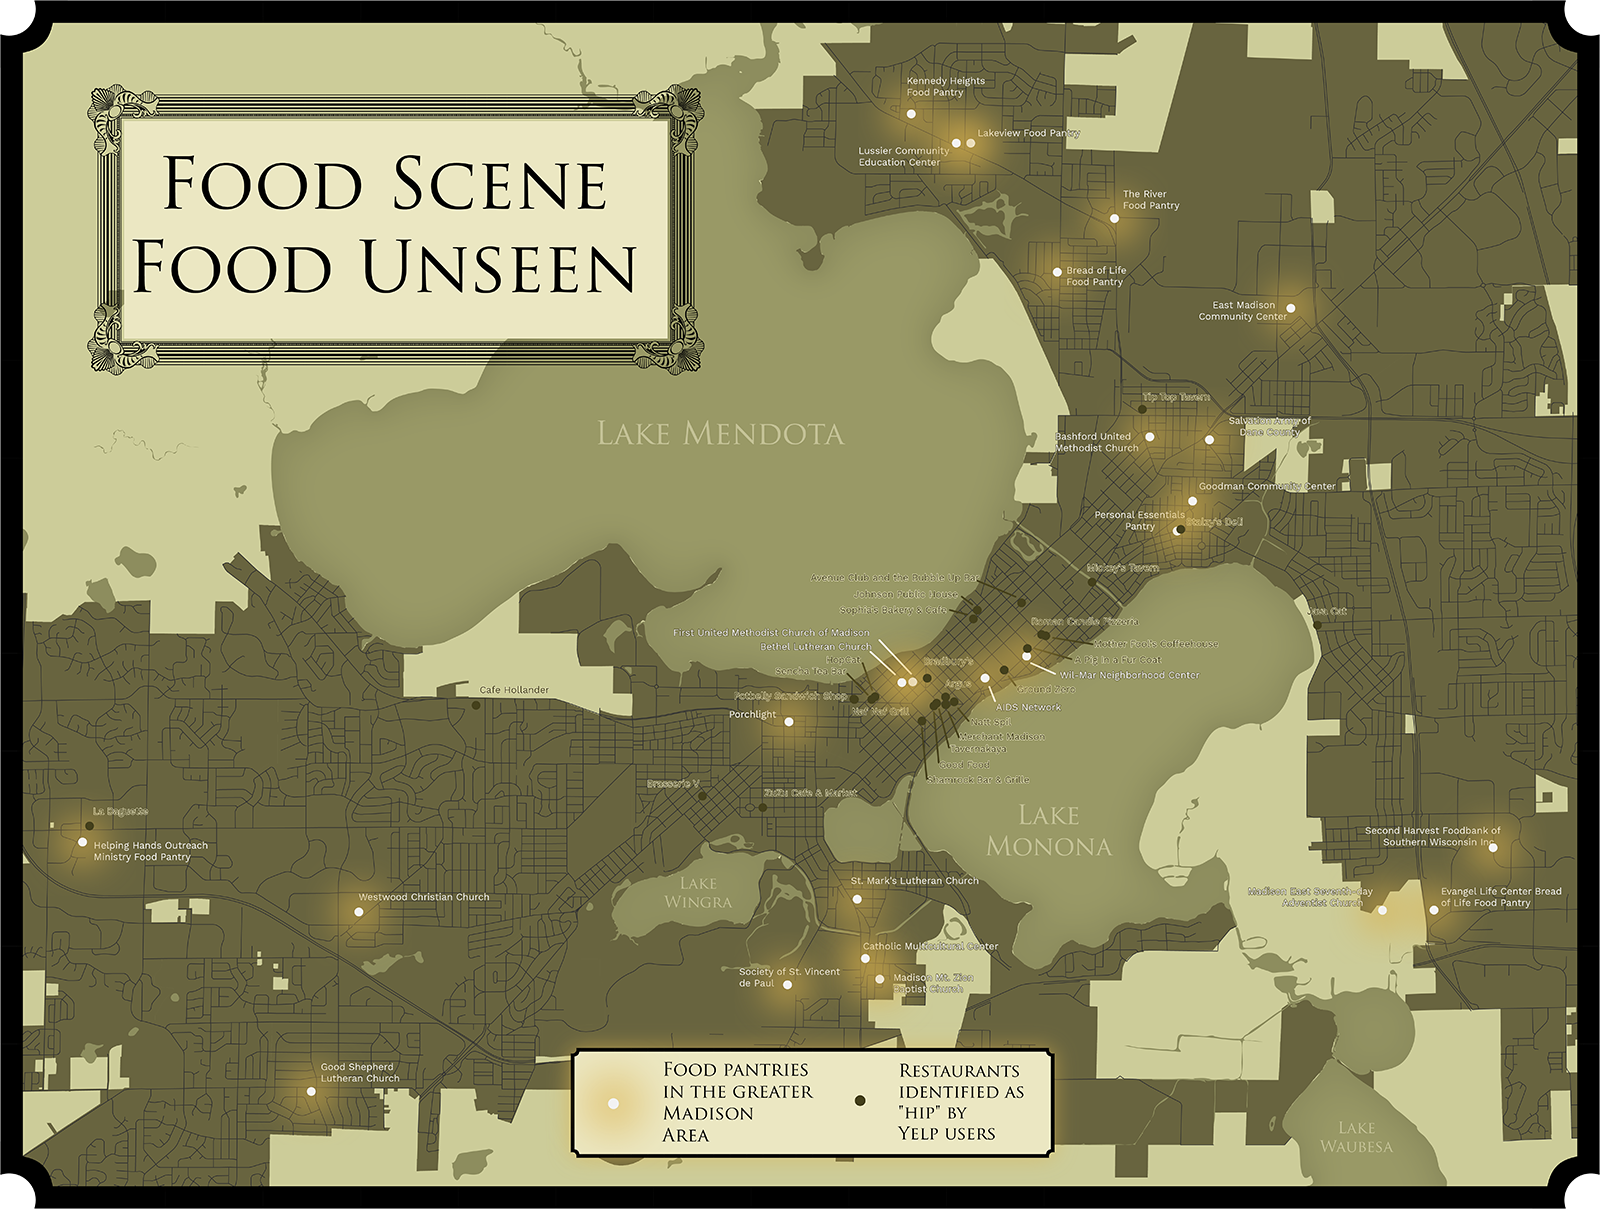
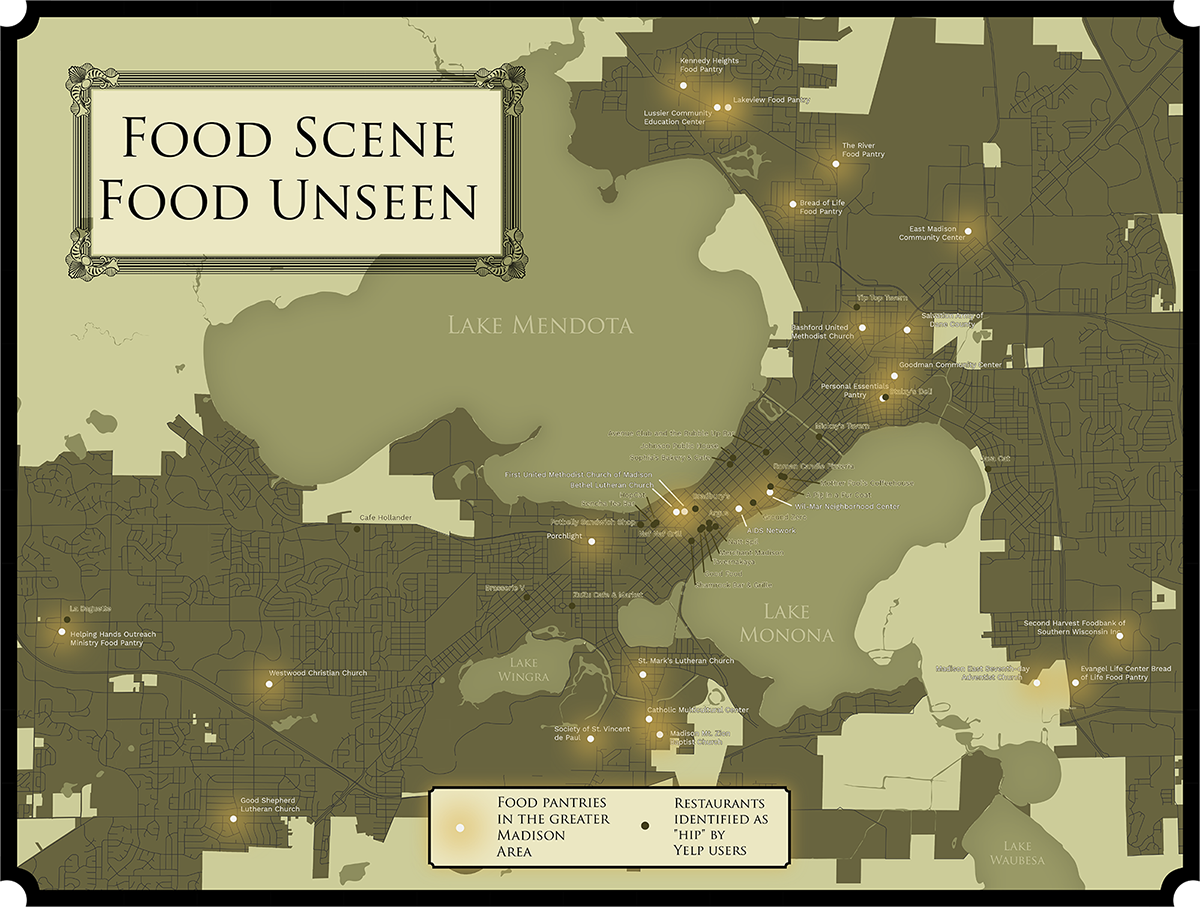
Updated Images and Summaries

diff --git a/madminiatlas.html b/madminiatlas.html
@@ -36,17 +36,31 @@
 
 <div><img align="center" siz src="images/MadAtlasLogo.png" alt="name of image" style="width: 100%;" "img-responsive center-block" /></div><br>
 	<p class="atlas header">When I visit a new city my favorite way to explore is through my stomach. I set out hoping to find those hidden gems known only to locals, the secret corners of the city that make it unique. Increasingly I find that I cultivate my experience not through a romanticized aimless wandering but through the careful culling of the aggregate experiences of others. My engagement with the city becomes dependent on a set of attributes I had no input into. What don’t I see? What flavors do I miss?</p>
-		<h2 align="center">food scene | food unseen</h2>
-			<div><img align="center" siz src="images/FoodUnscene_thumb.png" alt="name of image" style="width: 98%;" "img-responsive center-block" /></div>
-			<h3 align="center">view the full size map <a target="_blank" href="images/FoodUnscene_Full.png">here</a>.</h3>
+		
+		<h2 align="center">food scene | food unseen</h2><br>
+			<p>Often the conversations about a food scene in a city are dominated by the new and the next. Mixologists, small plates, unusual flavor combinations. This restaurant culture has a clear geography across Madison, concentrated on the Isthmus it is easy to forget that it is possible to eat beyond this strip of land.</p>
+			<p>To contrast and complicate this single, dominating food culture I chose to map the locations of Madison’s food pantries. Unassuming and endlessly essential they are sprinkled throughout the city, sometimes even sharing a block with trendiest restaurants in the city. This map is a reminder that there will always be portions of the city that will remain unseen even when they appear to be in plain sight.</p>
+			<div><img align="center" siz src="images/FoodUnscene_thumb.png" alt="name of image" style="width: 100%;" "img-responsive center-block" /></div>
+				<h3 align="center">view the full size map <a target="_blank" href="images/FoodUnscene_Full.png">here</a>.</h3><br>
+		
 		<h2 align="center">lost gems</h2>
-			<div><img align="center" siz src="images/LostGems_thumb.png" alt="name of image" style="width: 98%;" "img-responsive center-block" /></div>
-			<h3 align="center">view the full size map <a target="_blank" href="images/LostGems_full.png">here</a>.</h3>
+			<br>
+			<p>This map is meant to serve as a subtle reminder of the layers of memories that can accumulate within a city as the landscape of the built environment shifts and residents come and go. Behind each of these businesses is a story, not just of the owners but of the patrons and the community. These are stories of battles with cancer and rising rents, personal stories that are obscured when the storefront closes. These are the places that live on in the hearts and minds of those who knew them, and continue to live on in the fabric of the city regardless of who the next tenant is. But at the same time, these are the places that as people leave the city and new residents take their place, will slowly be lost even to the collective memory.</p>
+			<div><img align="center" siz src="images/LostGems_thumb.png" alt="name of image" style="width: 100%;" "img-responsive center-block" /></div>
+				<h3 align="center">view the full size map <a target="_blank" href="images/LostGems_full.png">here</a>.</h3>
+		
 		<h2 align="center">all night diner</h2>
-			<div><img align="center" siz src="images/AllNightDiner-thumb.png" alt="name of image" style="width: 98%;" "img-responsive center-block" /></div>
+			<br>
+			<p>This map is meant to answer the age-old question of where is it possible to grab a bite to eat at 4 am.</p>
+			<p>Short answer: you probably can’t.</p>
+
+			<div><img align="center" siz src="images/AllNightDiner-thumb.png" alt="name of image" style="width: 100%;" "img-responsive center-block" /></div>
 			<h3 align="center">view the full size map <a target="_blank" href="images/AllNightDiner-full.png">here</a>.</h3>
+		
 		<h2 align="center">high brow | low brow</h2>
-			<div><img align="center" siz src="images/HighBrowLowBrow_thumb.png" alt="name of image" style="width: 98%;" "img-responsive center-block" /></div>
+			<br>
+			<p>A number of years ago I was talking to a friend who took the time to explain the economics of their dining out strategy. A lover of good meals who above all else would seek novelty and adventure they managed to change the way I thought about dining out. Their recommendation was a simple one: to never have a boring meal or regret the money spent you needed to avoid the middle of the road. They would make a point to generally steer clear the moderately pricy New American fare where aioli stands in for innovation. Instead, they would actively try to spend their money on the far extremes of the restaurant pricing spectrum, arguing that the best way to be continually wowed is to spend the bulk of their dining out budget in in strip malls and family joints where the food is a labor of love and is made without adjustments for the American palate. They then recommend taking all the money that you save eating bulgogi instead of burgers and treating yourself to those special occasion meals that otherwise seem to always be just out of budget. This strategy has served me well while living on the East Coast, so now I need to know: where should I eat in Madison? </p>
+			<div><img align="center" siz src="images/HighBrowLowBrow_thumb.png" alt="name of image" style="width: 100%;" "img-responsive center-block" /></div>
 			<h3 align="center">view the full size map <a target="_blank" href="images/HighBrowLowBrow_Full.png">here</a>.</h3>
 
 <!--acknowledgements start-->

diff --git a/index.html b/index.html
@@ -18,7 +18,7 @@
 <div class="sidebar" role="navigation">
 	<ul id="sidebar" data-spy="affix" class="col-lg-3 col-md-4 col-sm-4 col-xs-12 pull-left list-unstyled sidebar">
 		<li>
-			<div class="header" style="background-color: #DFFF00">
+			<div class="header">
 				<h1><a class="active name" href="index.html">leanne abraham</a></h1>
 				<p>cartographer &#9679; student &#9679; bread enthusiast</p>
 			</div>
